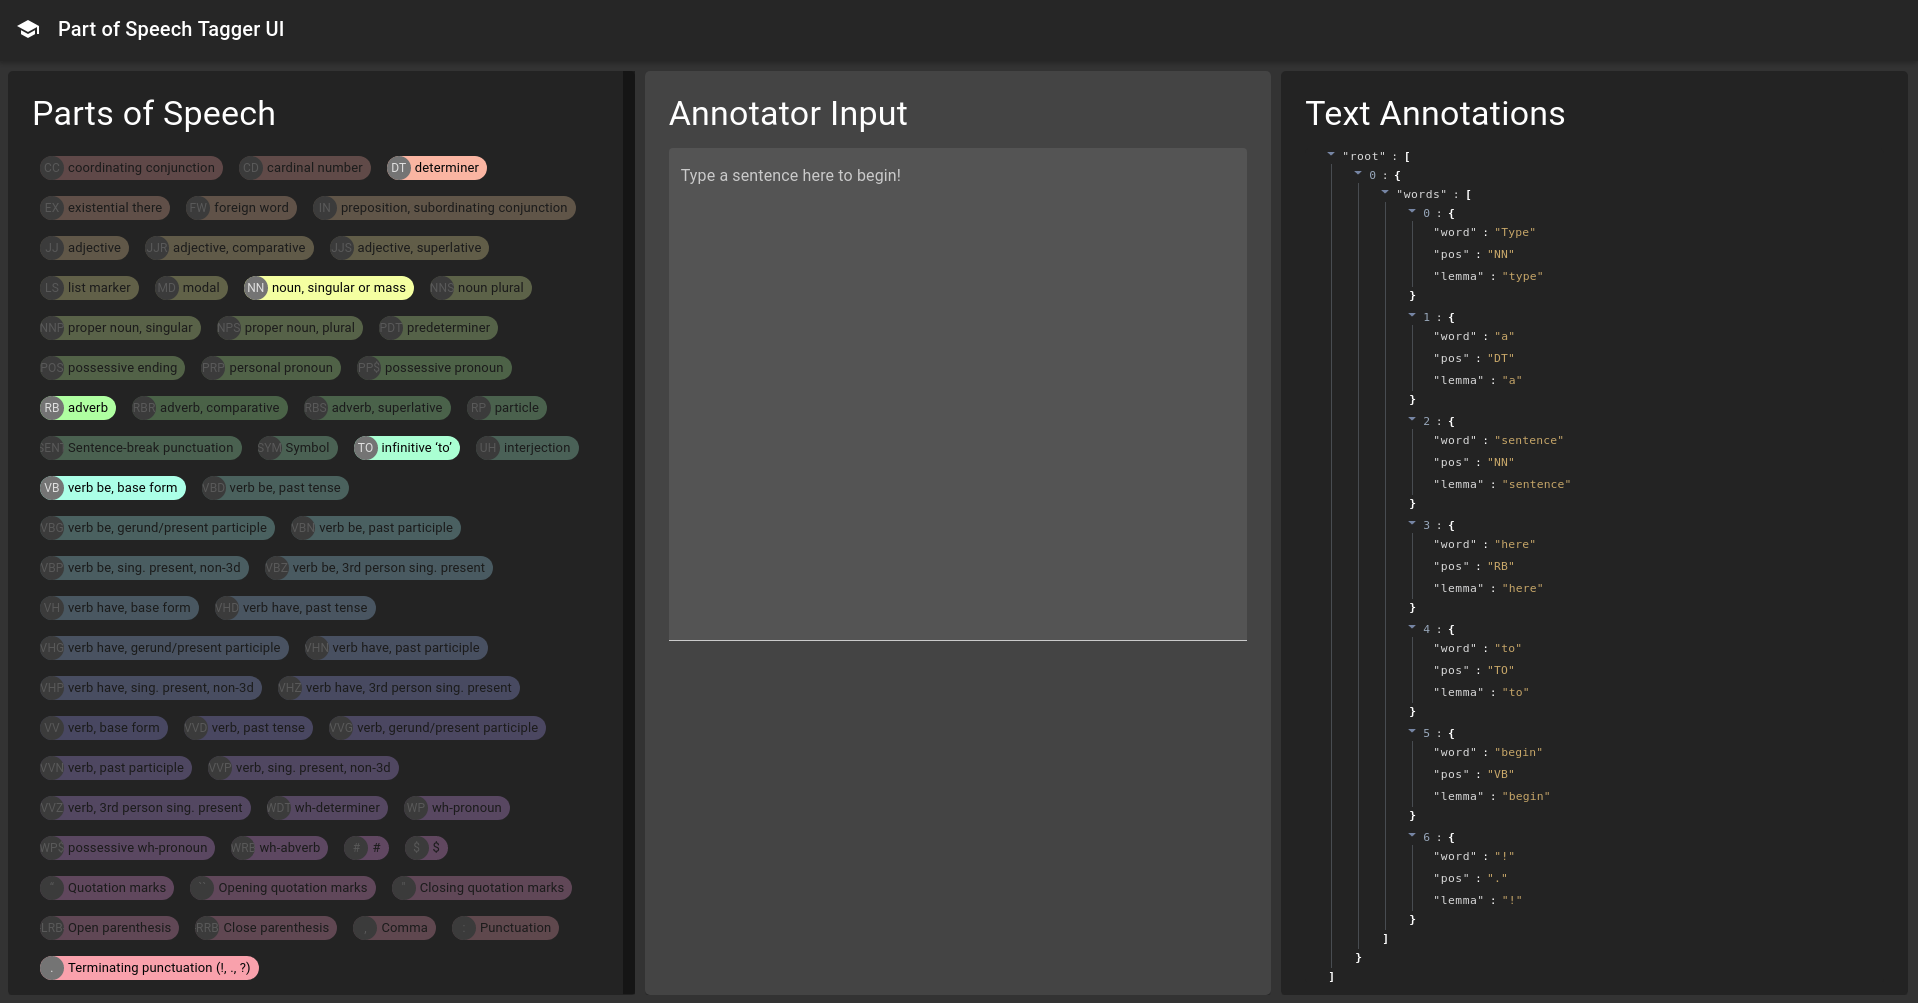
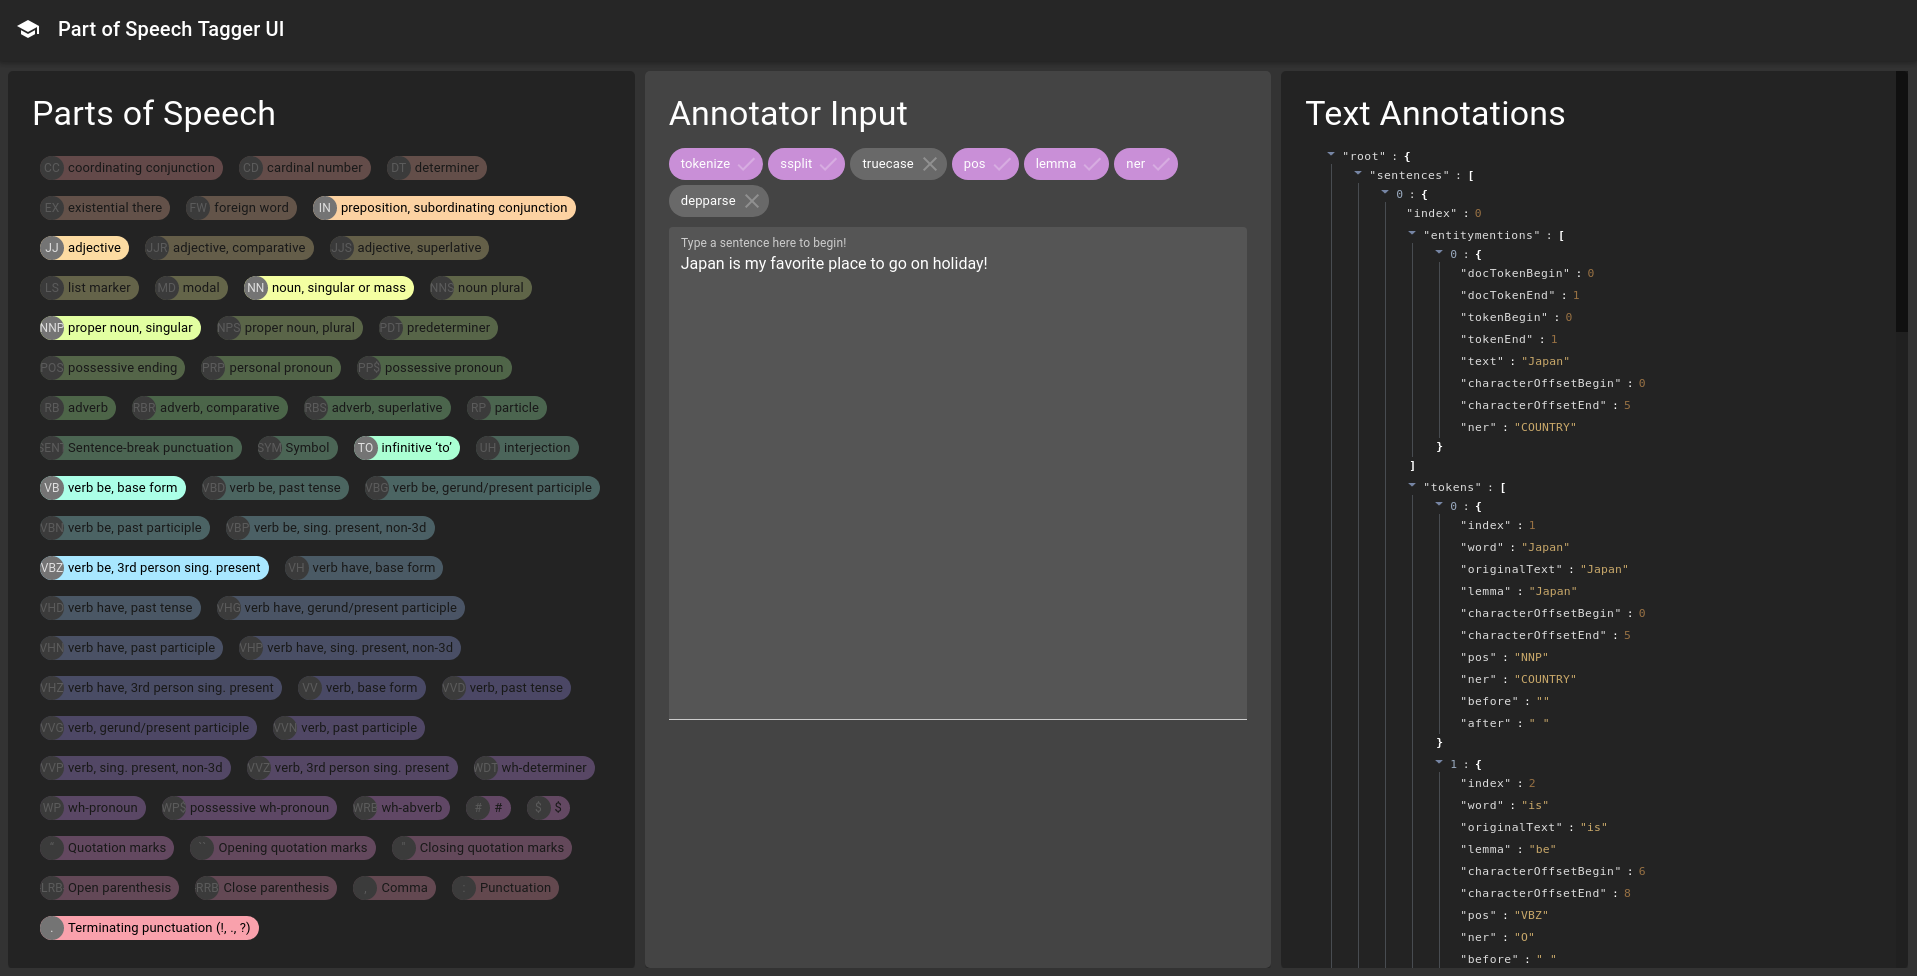
feat: Add individual annotator toggles and pos disabled warning
Update readme screenshot.png

diff --git a/src/components/App/App.tsx b/src/components/App/App.tsx
@@ -7,6 +7,10 @@ import Paper from '@material-ui/core/Paper';
 import ReactJson from 'react-json-view'
 import { PosName } from '../../models/pos-name';
 import { Typography, FormControl, InputLabel, FilledInput, Avatar, Chip } from '@material-ui/core';
+import DoneIcon from '@material-ui/icons/Done';
+import ClearIcon from '@material-ui/icons/Clear';
+import { purple } from '@material-ui/core/colors';
+import CircularProgress from '@material-ui/core/CircularProgress';
 
 const useStyles = makeStyles((theme: Theme) =>
   createStyles({
@@ -15,16 +19,29 @@ const useStyles = makeStyles((theme: Theme) =>
       borderRadius: '5px',
     },
     formControl: {
+      marginTop: '5px',
       width: '100%',
     },
     filledInput: {
       textAlign: 'center',
       color: 'secondary',
     },
-    chip: {
+    posChips: {
       margin: theme.spacing(1),
       color: 'black',
     },
+    annotatorChips: {
+      marginRight: '5px',
+      marginBottom: '5px',
+    },
+    progress: {
+      position: "absolute",
+      color: purple[200],
+      margin: theme.spacing(2),
+      marginTop: '18px',
+      height: '30px !important',
+      width: '30px !important',
+    }
   }),
 );
 
@@ -34,8 +51,22 @@ const App: React.FC = () => {
   const [tagSet, setTagSet] = useState<Set<string>>(new Set<string>());
   const [names, setNames] = useState<Array<PosName>>([]);
   const [hoveredToken, setHoveredToken] = useState<string>('');
+  const [annotators, setAnnotators] = useState<Map<string, boolean>>(new Map<string, boolean>(Object.entries({
+    'tokenize': true,
+    'ssplit': true,
+    'truecase': true,
+    'pos': true,
+    'lemma': true,
+    'ner': true,
+    'depparse': true,
+  })));
   const classes = useStyles();
   const urlBase = 'http://0.0.0.0:3001/v1';
+
+  const toggleAnnotator = (annotator: string) => {
+    annotators.set(annotator, !annotators.get(annotator));
+    setAnnotators(new Map<string, boolean>(annotators.entries()));
+  }
 
   useEffect(() => {
     axios
@@ -46,14 +77,18 @@ const App: React.FC = () => {
   }, []);
 
   useEffect(() => {
+    const annotatorsQuery: string = Array.from(annotators.entries()).filter(([,isOn]) => isOn).map(([key,]) => key).join(',');
     axios
-      .post(`${urlBase}/pos/tag`, text, { headers: { 'Content-Type': 'text/plain' } })
+      .post(`${urlBase}/pos/tag?annotators=${annotatorsQuery}`, text, { headers: { 'Content-Type': 'text/plain' } })
       .then(result => {
         setTags(result.data);
-        setTagSet(new Set<string>(result.data.map((sentence: any) => sentence.words.map((word: any) => word.pos)).flat()));
-
+        if (result.data.sentences) {
+          setTagSet(new Set<string>(result.data.sentences.map((sentence: any) => sentence.tokens.map((token: any) => token.pos)).flat()));
+        } else {
+          setTagSet(new Set<string>(result.data.tokens.map((token: any) => token.pos)));
+        }
       });
-  }, [text]);
+  }, [text, annotators]);
 
   const taggedPos: Set<string> = new Set<string>();
 
@@ -64,6 +99,16 @@ const App: React.FC = () => {
         <div className="grid-item">
           <Paper className={classes.paper}>
             <Typography variant="h4" component="h1" style={{paddingTop: '15px', paddingBottom: '15px'}}>Annotator Input</Typography>
+              {Array.from(annotators.entries()).map(([annotator]) => (
+                <Chip clickable
+                  label={annotator}
+                  style={{ backgroundColor: annotators.get(annotator) ? purple[200]: 'dimgrey'}}
+                  className={classes.annotatorChips}
+                  deleteIcon={annotators.get(annotator) ? <DoneIcon /> : <ClearIcon />}
+                  onClick={() => toggleAnnotator(annotator)}
+                  onDelete={() => toggleAnnotator(annotator)}
+                  />
+              ))}
               <FormControl className={classes.formControl} variant="filled">
                 <InputLabel htmlFor="component-filled">
                   Type a sentence here to begin!
@@ -80,7 +125,14 @@ const App: React.FC = () => {
         </div>
         <div className="grid-item">
           <Paper className={classes.paper} style={{backgroundColor: '#1E1E1E'}}>
-            <Typography variant="h4" component="h1" style={{ paddingTop: '15px', paddingBottom: '15px' }}>Parts of Speech</Typography>
+            <Typography variant="h4" component="h1" style={{ paddingTop: '15px', paddingBottom: '15px' }}>
+              Parts of Speech {!(
+                annotators.get('ner') ||
+                annotators.get('lemma') ||
+                annotators.get('depparse') ||
+                annotators.get('pos')
+              ) ? <small style={{ color: '#FF6F61', opacity: 0.5}}>(disabled)</small> : ''}
+            </Typography>
             {names.map((name, i) => (
               <Chip
                 avatar={<Avatar>{name.token}</Avatar>}
@@ -90,7 +142,7 @@ const App: React.FC = () => {
                   backgroundColor: `hsl(${360 * i / names.length},100%,82%)`,
                   opacity: tagSet.has(name.token) || hoveredToken === name.token ? 1 : 0.3,
                 }}
-                className={classes.chip}
+                className={classes.posChips}
                 onMouseEnter={() => setHoveredToken(name.token)}
                 onMouseLeave={() => setHoveredToken('')}
                 />
@@ -99,7 +151,10 @@ const App: React.FC = () => {
         </div>
         <div className="grid-item">
           <Paper className={classes.paper} style={{ backgroundColor: '#1E1E1E' }}>
-            <Typography variant="h4" component="h1" style={{ paddingTop: '15px', paddingBottom: '15px' }}>Text Annotations</Typography>
+            <Typography variant="h4" component="h1" style={{ paddingTop: '15px', paddingBottom: '15px', display: 'inline-block' }}>
+              Text Annotations
+            </Typography>
+            {/* {1 > 0 ? <CircularProgress  className={classes.progress} /> : ''} */}
             <ReactJson
               src={tags}
               theme='twilight'
@@ -108,7 +163,7 @@ const App: React.FC = () => {
               displayObjectSize={false}
               indentWidth={4}
               enableClipboard={false}
-              collapsed={4}
+              collapsed={5}
               style={{paddingLeft: '20px', borderRadius: '5px'}}
               >
             </ReactJson>
